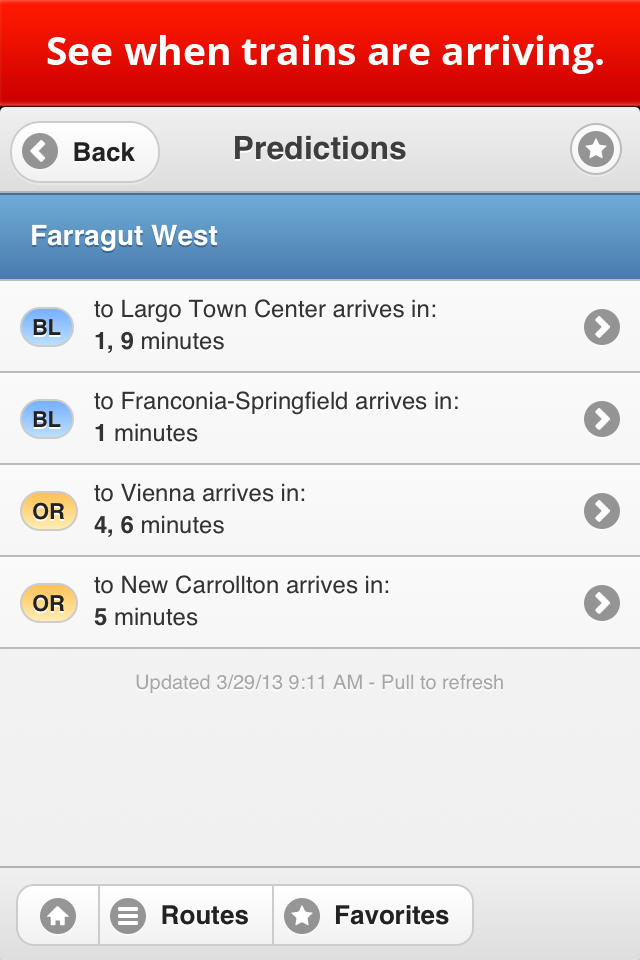
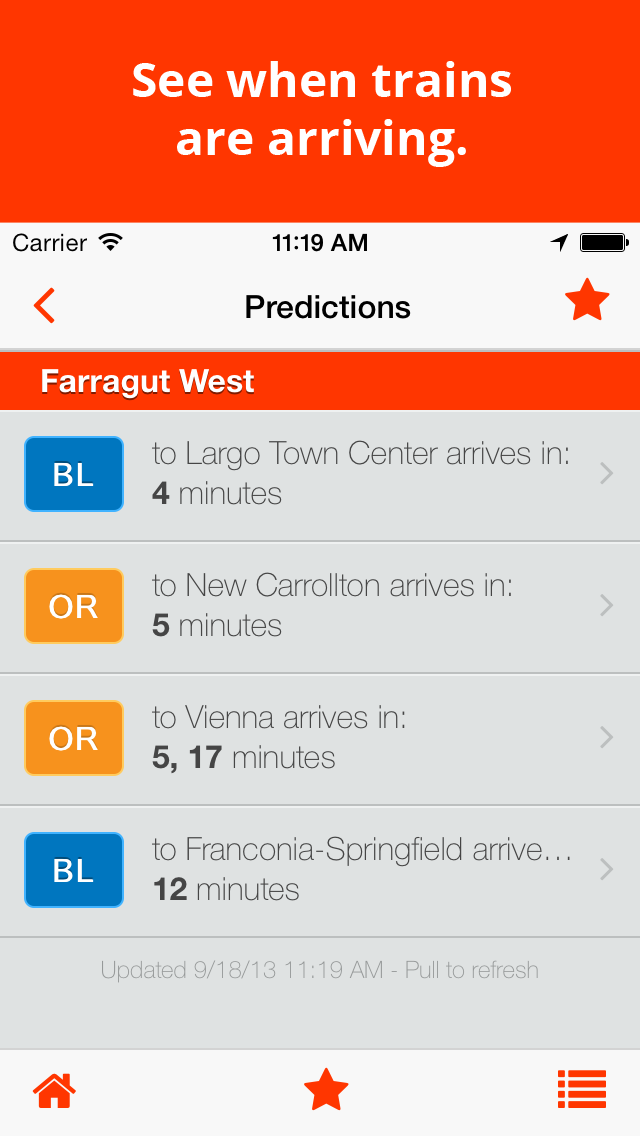
iOS7/new UI update

diff --git a/index.html b/index.html
@@ -72,6 +72,10 @@
 	    	float: left;
 	    	margin-top: 4px;
     	}
+    	
+    	a {
+	    	color: #ff3600;
+    	}
     </style>
     
     <meta property="og:title" content="BusTrackDC -- Find out when your Metro bus, Circulator, or Metro train is arriving"/> <meta property="og:description" content="Do you live in Washington, DC and ride Metro bus, the circulator, or Metro rail? BusTrackDC tells you when the next bus or train arrives! (And lets you find nearby bus and rail stops, save favorite stops, and see route maps.) Free for iOS and Android -- download it today!"/><meta property="og:image" content="http://j-ro.github.com/WheresTheBusDC/images/bustrack-icon.jpg"/><meta property="og:type" content="website" /><meta property="og:url" content="http://bustrackdc.com" />
@@ -85,15 +89,15 @@
       <div class="inner">
 
         <header>
-        	<a href="https://itunes.apple.com/us/app/bustrackdc/id597188689?ls=1&amp;mt=8"><img src="images/bustrack-icon.jpg" class="header-image" /></a>
+        	<a href="https://itunes.apple.com/us/app/bustrackdc/id597188689?ls=1&amp;mt=8"><img src="images/bustrack-icon.png" class="header-image" /></a>
           <h1>BusTrackDC</h1>
-          <small>version 1.5</small>
+          <small>version 1.6</small>
           <h2>Live in DC and ride Metro bus, rail, or the Circulator? BusTrackDC tells you when the next one arrives!</h2>
         </header>
         
 
         
-       <p class="clear padding-top"><strong>Now for iOS and Android!</strong> <br/>Get BusTrackDC for FREE for iOS and Android -- <a href="https://itunes.apple.com/us/app/bustrackdc/id597188689?ls=1&amp;mt=8">click here for iOS</a> and <a href="https://play.google.com/store/apps/details?id=com.JasonRosenbaum.BusTrackDC">here for Android</a>!</p>
+       <p class="clear padding-top"><strong>New smoother and faster interface for iOS7 and Android!</strong> <br/>Get BusTrackDC for FREE for iOS and Android -- <a href="https://itunes.apple.com/us/app/bustrackdc/id597188689?ls=1&amp;mt=8">click here for iOS</a> and <a href="https://play.google.com/store/apps/details?id=com.JasonRosenbaum.BusTrackDC">here for Android</a>!</p>
 
         <div class="center">       
 	        <a href="https://itunes.apple.com/us/app/bustrackdc/id597188689?ls=1&amp;mt=8" ><img class="appstore" src="https://raw.github.com/j-ro/WheresTheBusDC/master/appstore/appstore.png" height="76"></a> 
@@ -173,7 +177,7 @@
 
 <p><a href="https://itunes.apple.com/us/app/bustrackdc/id597188689?ls=1&amp;mt=8"><img src="images/screenshot3.png" alt="Is that bus or train going your way? Find out with a route map."></a></p>
 
-<p><a href="https://itunes.apple.com/us/app/bustrackdc/id597188689?ls=1&amp;mt=8"><img src="images/screenshot5.png" alt="Search for routes by name"></a></p>
+<!-- <p><a href="https://itunes.apple.com/us/app/bustrackdc/id597188689?ls=1&amp;mt=8"><img src="images/screenshot5.png" alt="Search for routes by name"></a></p> -->
 
 <hr/>
 
